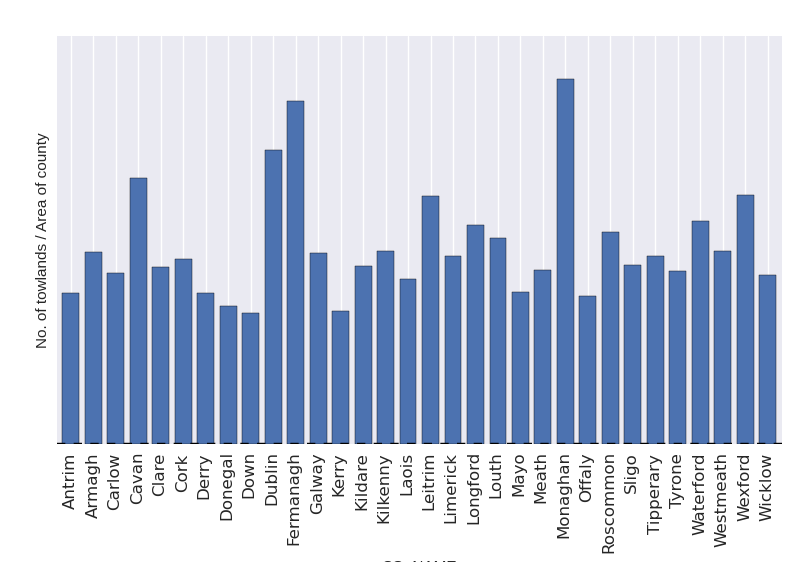
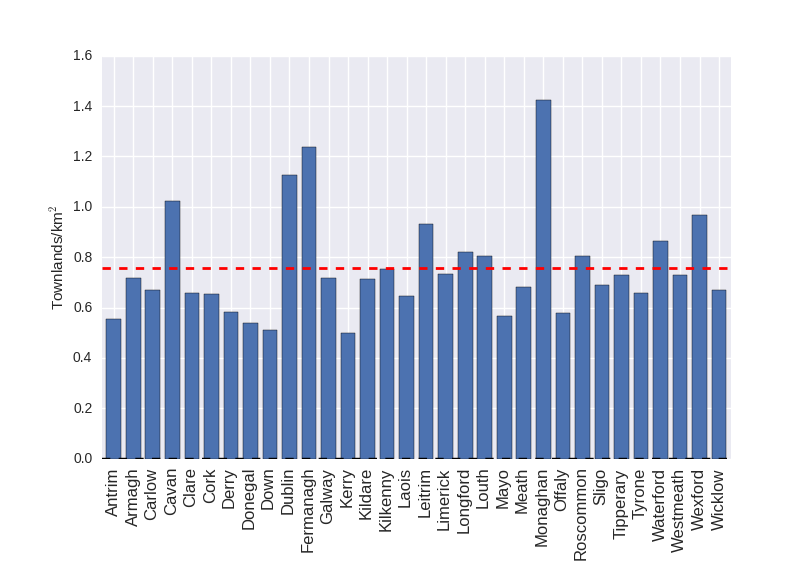
plotting routines, some figs

diff --git a/townlands.py b/townlands.py
@@ -5,7 +5,7 @@ from geopandas.plotting import plot_multipolygon
 import seaborn as sns; sns.set()
 
 
-def top10(input_list):
+def top5(input_list):
 	# makes a dict of strings -> no. of appearances
 	# returns the top ten strings
 
@@ -20,13 +20,13 @@ def top10(input_list):
 	most_common = sorted(counter_dict, key = counter_dict.get, 
                              reverse = True)
 
-	top_10 = []
-	for i in range(10):
+	top_5 = [[],[]]
+	for i in range(5):
 		word = most_common[i]
-		word_tuple = (word, counter_dict[word])
-		top_10.append(word_tuple)
+		top_5[0].append(word)
+		top_5[1].append(counter_dict[word])
 
-	return top_10
+	return top_5
 
 def map_county_townlands(county, ireland=False):
 
@@ -40,7 +40,7 @@ def map_county_townlands(county, ireland=False):
 	county.plot(colormap='winter')
 	plt.show()
 
-def map_counties(t_df, townland_density=False):
+def map_counties(t_df, townland_density=False, name=[]):
 
 
 	counties = gpd.GeoDataFrame.from_file('data/counties.shp')
@@ -48,49 +48,60 @@ def map_counties(t_df, townland_density=False):
 	if townland_density:
 		counties['Density'] = counties.apply( lambda row:
 				(t_df.groupby('CO_NAME').CO_NAME.count()[row.NAME_TAG]/row.AREA)*1e6, axis=1)
-	
+		# add a towlands/km^2 column
+		counties.Density.iloc[21] = counties.Density.iloc[21]/0.58
+		# Kerry has an incomplete survey, so I scale it by the % done the survey is.
+		# This is obviously a cheat, assuming that the townlands left will have the same average are as those
+		# already done, but it's better than leaving it out 	
+
 		vmin, vmax = counties.Density.min(), counties.Density.max()
 
-		ax = counties.plot(column='Density', scheme='equal_interval', k=5, colormap='OrRd', alpha=0.5)
-		
+		ax = counties.plot(column='Density', scheme='equal_interval', 
+				k=5, colormap='OrRd', alpha=0.5)
+		plt.title(r'Townlands per km$^2$')
 		fig = ax.get_figure()
 		cax = fig.add_axes([0.9, 0.1, 0.03, 0.8])
 		sm = plt.cm.ScalarMappable(cmap='OrRd', norm=plt.Normalize(vmin=vmin, vmax=vmax))
-		# fake up the array of the scalar mappable. Urgh...
+		
 		sm._A = []
 		fig.colorbar(sm, cax=cax)
 		
+		
 		plt.figure()
-		ax = (counties.sort('NAME_TAG')).Density.plot(kind='bar') 
+		ax = counties.sort('NAME_TAG').set_index('NAME_TAG').Density.plot(kind='bar') 
+
 		ax.axhline(counties.Density.mean(), color='r', linewidth=2, linestyle='--')
 		ax.set_ylabel(r'Townlands/km$^2$')
-		ax.set_xticklabels(counties.sort('NAME_TAG').NAME_TAG.values)
 
 	else:
-		counties.plot(colormap='Greens', alpha=0.3)
+		counties.plot(colormap='Greens', alpha=0.3, axes=None)
+		if len(name) != 0:
+			
+			name_in = [i.upper().endswith(name.upper()) for i in t_df.NAME_TAG.values] 
+			place_w_name = df[name_in]
+			
+			t_df['Name_in'] = [i.upper().endswith(name.upper()) for i in t_df.NAME_TAG.values]			
+			print t_df.groupby('CO_NAME').Name_in.sum()
+
+			plt.scatter(place_w_name.LONGITUDE.values, place_w_name.LATITUDE.values, s=3, color='r')
+			plt.title('Townlands with names ending with ' + name[0].upper() + name[1:])
+			
 
 	plt.show()
 
 
-
 if __name__ == '__main__':
 
-	df = pd.read_csv('townlands-no-geom.csv')
+	df = pd.read_csv('data/townlands-no-geom.csv')
 	ga_names = df[df.NAME_GA.notnull()].NAME_GA.values	
-
 	first_words = [i.split(' ')[0] for i in ga_names]
-	
-	print('The most common first words in Irish are:\n')
-	for i in top10(first_words)[:5]:
-		print(i[0] + ' appears %d times' %i[1])
+	print('The most common first words in Irish are\n')
+	print top5(first_words)	
 
-	names = df.NAME_TAG.values
-	beginnings = []
-	for i in range(1,7):
-		beginnings.extend(top10([x[:i] for x in names]))
 
-	print('The most common ')
+	print('The most common beginnings to names are:\n')
+	print top5([i[:5] for i in df.NAME_TAG.values])	
 
-	#map_county_townlands('Galway')
-	#map_counties(df, townland_density=True)
+	#map_county_townlands('Kerry')
+	#map_counties(df, townland_density=False, name='crut')
 
